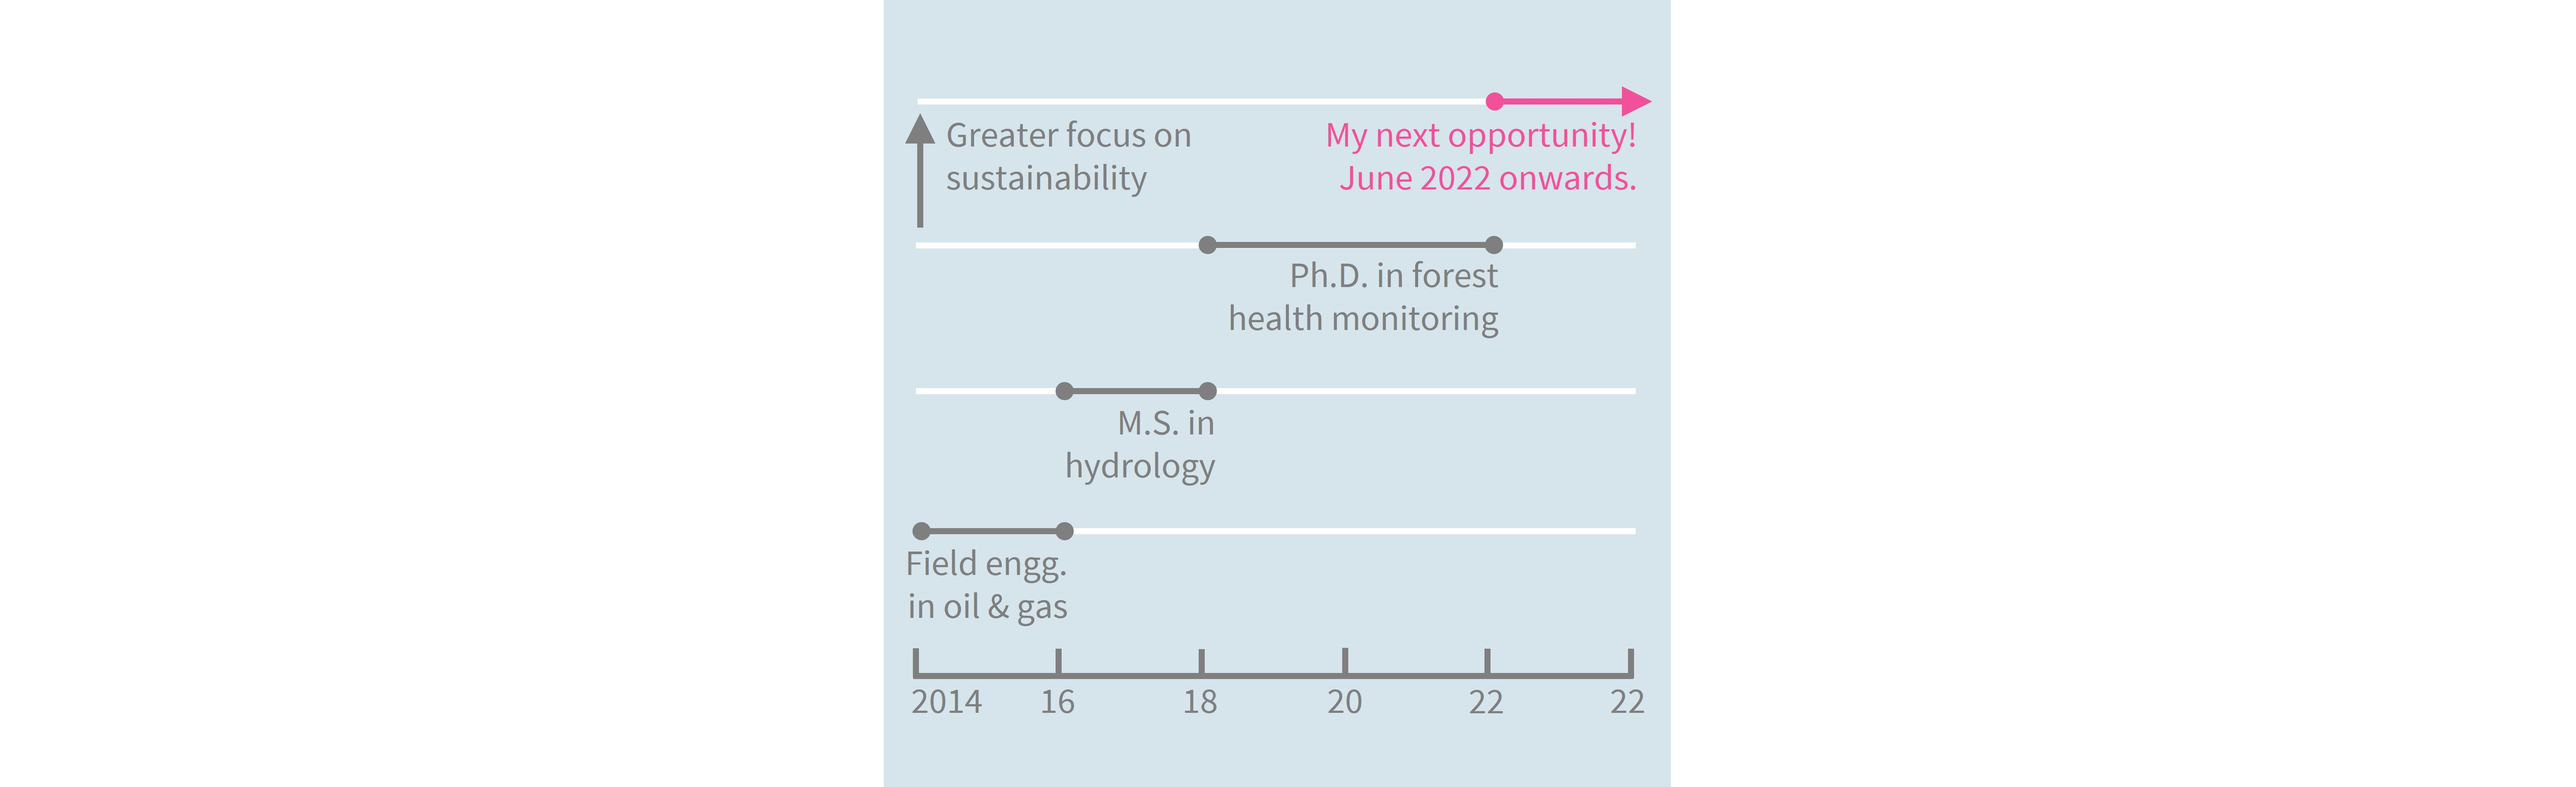
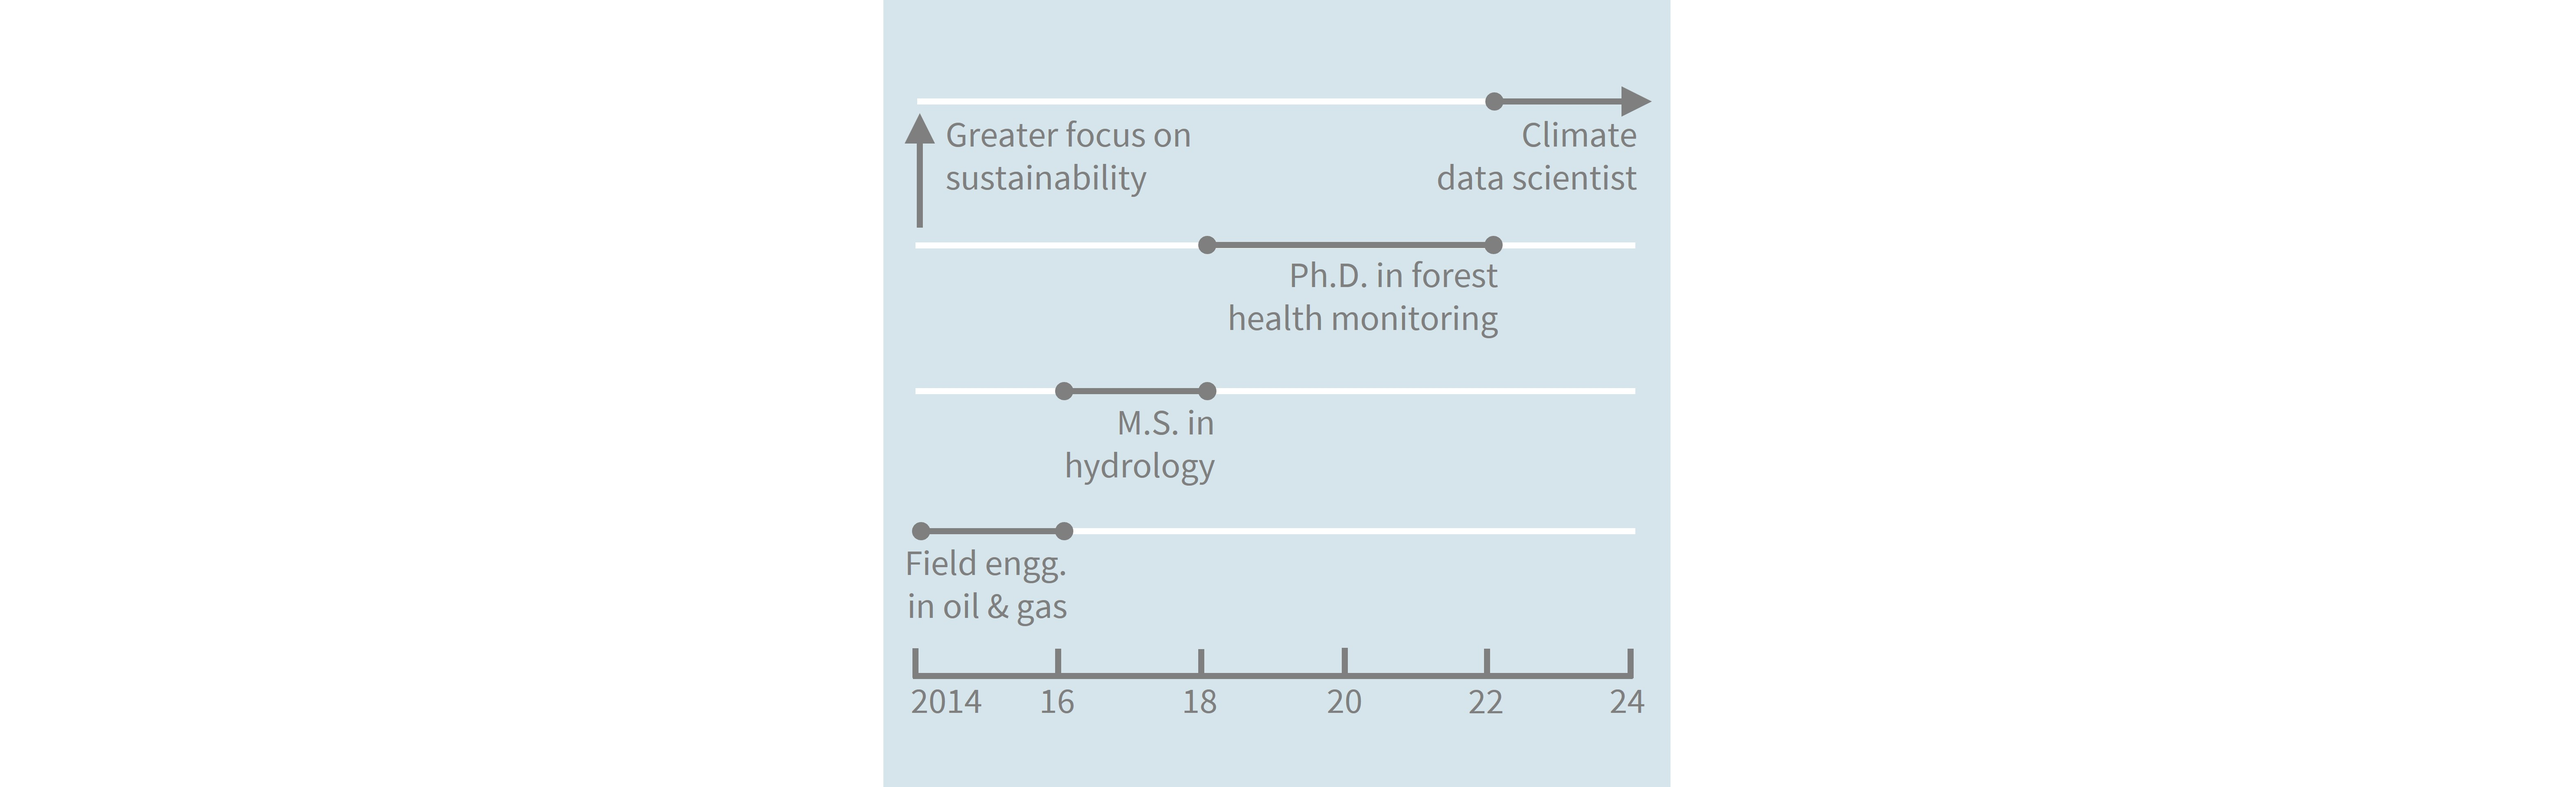
removing hire me

diff --git a/_pages/about.md b/_pages/about.md
@@ -1,30 +1,29 @@
 ---
 permalink: /
-title: "Hire me!"
-excerpt: "Hire me!"
+title: "About me"
+excerpt: "About me"
 author_profile: true
 redirect_from: 
   - /about/
   - /about.html
 image: "/images/coverpicture.jpeg"
 ---
+
 <picture>
     <source media="(min-width: 600px)" srcset="/images/timespent_wide.jpg">
-    <img src="/images/hireme.jpg" alt="Time line of my previous experience">
+    <img src="/images/timespent.jpg" alt="Time line of my previous experience">
 </picture>
 _My path since 2014._
 
-I am looking for full-time roles in industry as machine learning engineer or data-scientist starting June 2022. I am eager to apply my skills in developing data-driven geospatial models to solve your problems! 
+<!-- I am looking for an internship for the summer of 2021. I am eager to apply my skills in developing data-driven geospatial models to solve your problems! 
 
 My skills include- 
 
 1. Developing physics-guided deep learning models (marrying mechanistic principles with empirical methods)
-2. Geospatial analytics including building large data pipelines
+2. Geospatial analytics
 3. Hypothesis testing (including causal inference) 
 
-Interested or know anyone who might be interested in hiring me? [Please email me.](mailto:kkrao@stanford.edu)
-
-# About me
+I am open to work remotely from Stanford, CA. Interested or know anyone who might be interested in hiring me? [Please email me.](mailto:kkrao@stanford.edu) -->
 
 I am a PhD candidate in Earth System Science at Stanford University. 
 
